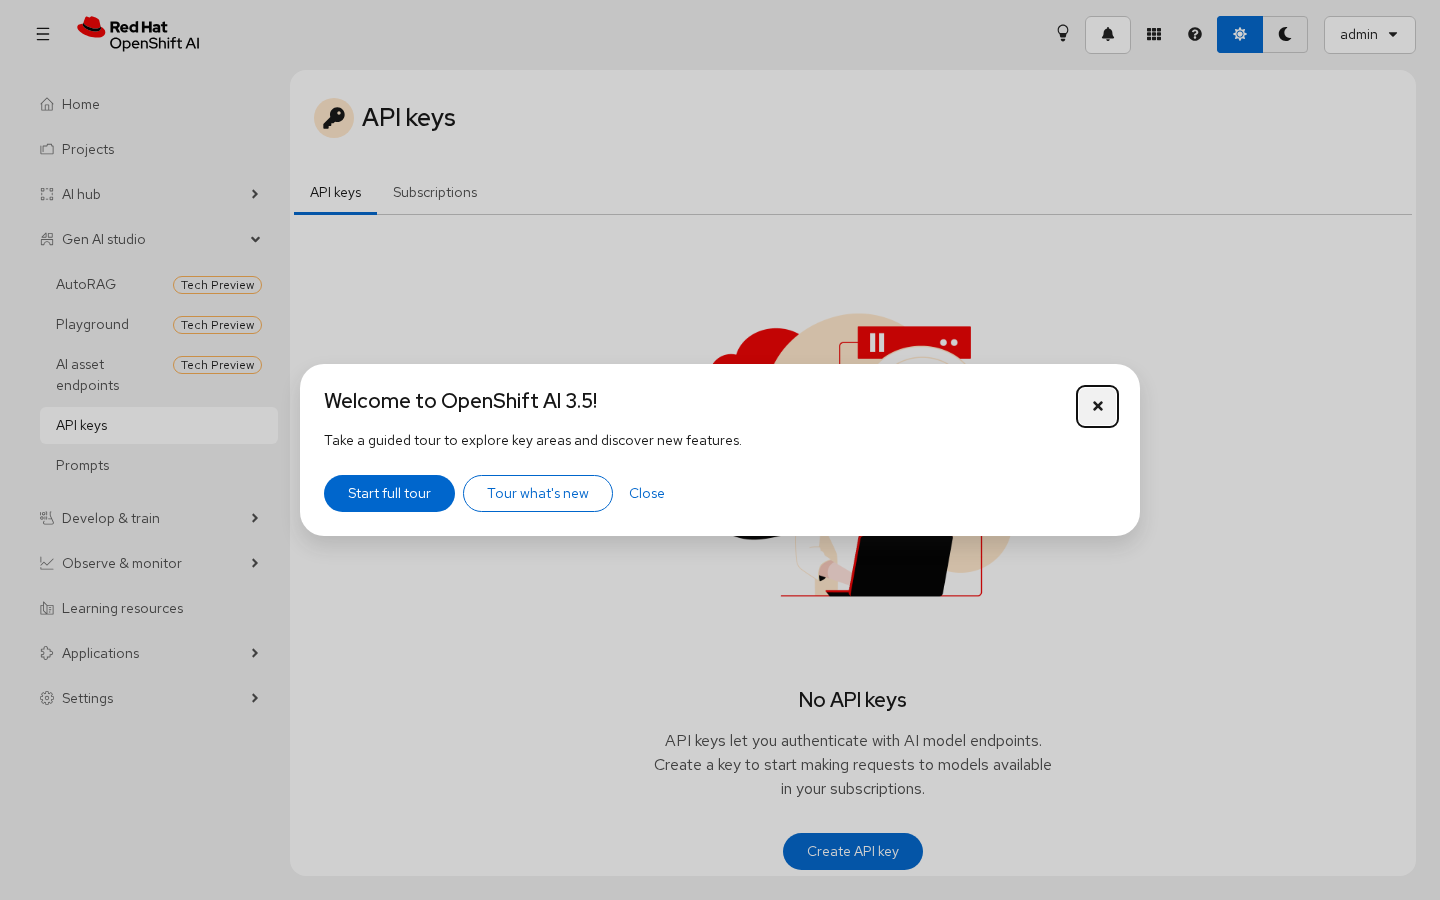
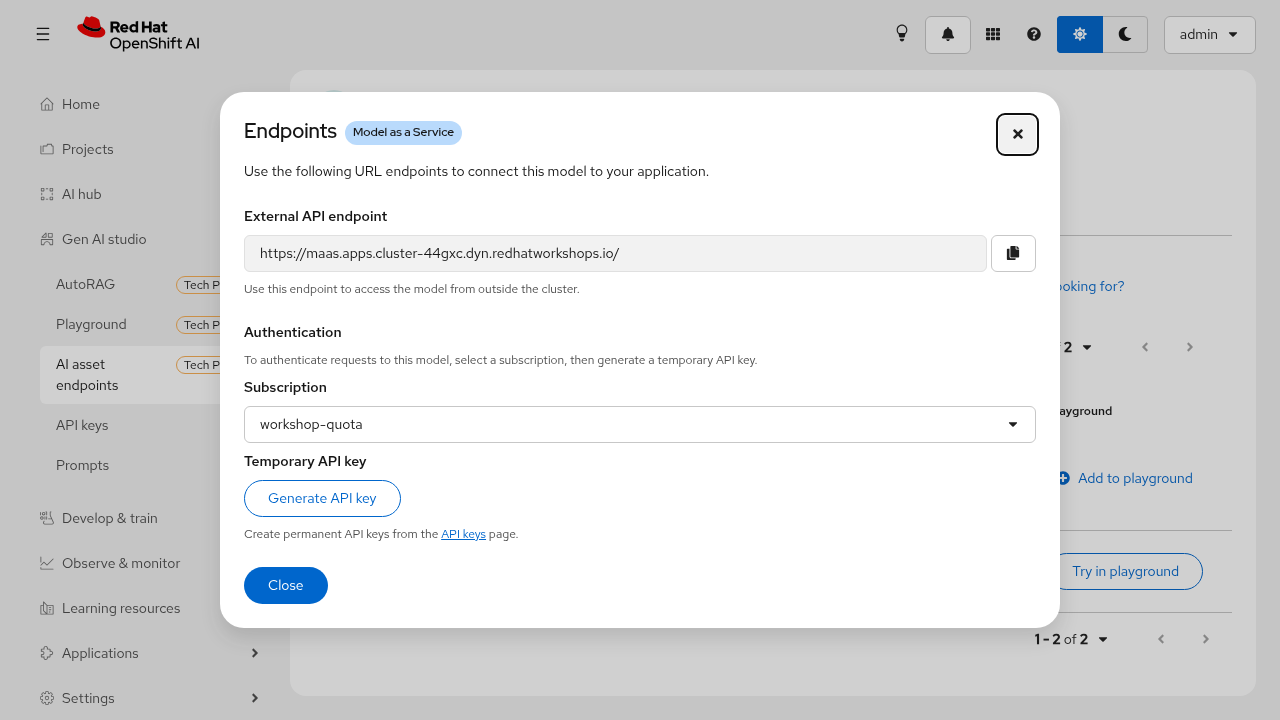
🦩 initial commit 🦩

diff --git a/qa/quality-triage.md b/qa/quality-triage.md
@@ -5,8 +5,8 @@ Post-session re-run 2026-09-24 — analysis only. Reflects the easy-defect proce
 
 - RHOAI version: 3.5
 - Total enriched workshops: **54**
-- Scored > 0 (need processing): **34**
-- Score == 0 (skip — idempotent): **20**
+- Scored > 0 (need processing): **32**
+- Score == 0 (skip — idempotent): **22**
 - Processing order: **easy content-context defects first** (placeholders, vague verify, YAML callouts), then
   screenshot/image-ref gaps when a live cluster is available for capture.
 - Tools: `decided` 0.27.0, `rg` 15.2.0 available. Enrichment source repos: all 8 present.
@@ -30,8 +30,6 @@ Scoring: TODO markers +3 · broken heredoc/YAML outside source block +3 · broke
 | maas-multi-tenancy | maas | TP | 4 | no screenshots, placeholders |
 | kuberay | distributed-training | GA | 3 | no screenshots, vague verify |
 | autorag | feature-store-automl-autorag | TP | 3 | TODO markers |
-| maas-core | maas | GA | 3 | TODO markers |
-| maas-loki-showback | maas | TP | 3 | TODO markers |
 | model-registry-catalog | model-registry | GA | 3 | TODO markers |
 | opencode-coding-agent | agents-mcp | TP | 2 | no screenshots |
 | validated-tool-calling-config | agents-mcp | TP | 2 | placeholders |
@@ -64,6 +62,8 @@ Scoring: TODO markers +3 · broken heredoc/YAML outside source block +3 · broke
 | llmd-lora-routing | agents-mcp | DP | 0 | clean |
 | kubeflow-trainer-v2 | distributed-training | GA | 0 | clean |
 | nemo-guardrails | guardrails | GA | 0 | clean |
+| maas-core | maas | GA | 0 | clean |
+| maas-loki-showback | maas | TP | 0 | clean |
 | maas-llmd-deployment | maas | TP | 0 | clean |
 | maas-multi-provider-passthrough | maas | TP | 0 | clean |
 | maas-vllm-deployment | maas | TP | 0 | clean |
@@ -179,18 +179,6 @@ Detected via `llmd-*`, `maas-llmd-deployment`, vLLM GPU paths, distributed-train
 - Vague verify sections: module-03-advanced.adoc
 
 ### autorag (feature-store-automl-autorag) — score 3
-
-- TODO markers: 1 occurrence(s) (all `// TODO: capture screenshot` gaps — need live cluster)
-- Image refs: 1, all resolve
-- Screenshots on disk: 1
-
-### maas-core (maas) — score 3
-
-- TODO markers: 1 occurrence(s) (all `// TODO: capture screenshot` gaps — need live cluster)
-- Image refs: 1, all resolve
-- Screenshots on disk: 1
-
-### maas-loki-showback (maas) — score 3
 
 - TODO markers: 1 occurrence(s) (all `// TODO: capture screenshot` gaps — need live cluster)
 - Image refs: 1, all resolve

diff --git a/qa/gap-analysis.md b/qa/gap-analysis.md
@@ -235,3 +235,20 @@ Kuadrant CR activated), `monitoring` overlay (opentelemetry), `make maas-secrets
   observability dashboards" — the Loki backend (the lab's setup) is not deployed → E3
 - `maas-oidc-auth`, `maas-multi-tenancy`, `external-metering-maas`, `external-metering-per-user`:
   need MaaS exercise execution (subscriptions, auth policies, traffic) → E3
+
+### E3a result (2026-09-24): MaaS publish + observability — DONE (2 shots captured)
+
+- **maas-loki-showback 02-usage-dashboard.png CAPTURED**: PersesGlobalDatasource fix
+  (gold-standard observability-datasource) → Usage tab renders with MaaS usage metrics.
+- **maas-core 02-endpoints-dialog.png CAPTURED**: full publish flow — gateway stuck on
+  `type: LoadBalancer` with no LB provider (fixed via documented `make gateway-status`
+  status patch), `qwen25-05b-maas` LLMInferenceService deployed via the MaaS gateway,
+  MaaSModelRef + Subscription + AuthPolicy created → MaaS badge + endpoint URL + subscription
+  selector in the dialog.
+- **Cluster finding**: `cluster/overlays/maas/gateway/gateway-config.yaml` ships `type:
+  LoadBalancer`; on this cluster the documented `make gateway-status` status patch is REQUIRED
+  after every apply (or the Gateway never reports Programmed and ALL MaaS-path model
+  deployments hang). Should be added to the overlay README/verify or made ClusterIP+Route-only.
+- Remaining E3 (traffic-dependent): `external-metering-maas`, `external-metering-per-user`
+  (need MaaS API traffic for token-usage events), `maas-oidc-auth`, `maas-multi-tenancy`
+  (need per-tenant subscription/auth resources)
